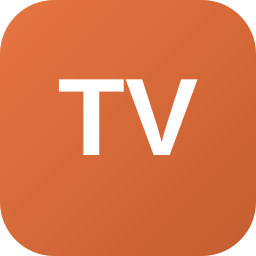
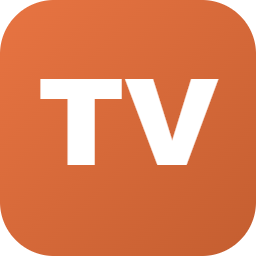
Material design

diff --git a/styles.css b/styles.css
@@ -171,6 +171,24 @@ input, textarea, select {
   color: #fff;
 }
 
+/* Unified keyboard / D-Pad focus rings — clearly visible on TV and never
+   clipped (inset shadow survives overflow:hidden scroll containers). */
+.icon-button:focus-visible,
+.epg-toggle:focus-visible,
+.epg-nav-btn:focus-visible,
+.program-info-button:focus-visible,
+.settings-toolbar-btn:focus-visible,
+.lock-unlock-btn:focus-visible,
+.fav-action:focus-visible {
+  outline: none;
+  box-shadow: inset 0 0 0 2px var(--accent), 0 0 0 3px var(--accent-glow);
+}
+.epg-guide .program:focus-visible {
+  outline: none;
+  box-shadow: inset 0 0 0 2px var(--accent);
+  z-index: 4;
+}
+
 button {
   font-family: inherit;
   font-size: 13px;
@@ -1783,8 +1801,11 @@ html:not([data-platform="electron"]) .sidebar-toggle {
   .section-title {
     padding: 8px 12px;
     flex-wrap: wrap;
-    gap: 4px;
+    gap: 4px 6px;
   }
+  /* Two rows only: title + nav + range on top, search full-width below. */
+  .section-title #guideRange { order: 5; margin-left: auto; }
+  .section-title .epg-search { order: 10; }
 
   .epg-search {
     width: 100%;
@@ -2010,6 +2031,30 @@ html:not([data-platform="electron"]) .sidebar-toggle {
 
   .channel-logo { width: 36px; height: 28px; }
   .channel-text h3 { font-size: 11px; }
+}
+
+/* ═══════════════════════════════════════════════════════════════════════════
+   RESPONSIVE — Short viewport (landscape phones, small TV panes)
+   Keep the channel-info toast and player messages compact so they stay
+   inside the shrunken player stage instead of being clipped by it.
+   ═══════════════════════════════════════════════════════════════════════════ */
+
+@media (max-height: 500px) {
+  .switch-overlay {
+    bottom: 8px;
+    padding: 8px 12px;
+    gap: 10px;
+  }
+  .switch-overlay img { width: 40px; height: 30px; }
+  .switch-overlay h2 { font-size: 13px; }
+  .switch-overlay p {
+    font-size: 11px;
+    white-space: nowrap;
+    overflow: hidden;
+    text-overflow: ellipsis;
+    max-width: 42vw;
+  }
+  .player-message { bottom: 8px; }
 }
 
 /* ═══════════════════════════════════════════════════════════════════════════